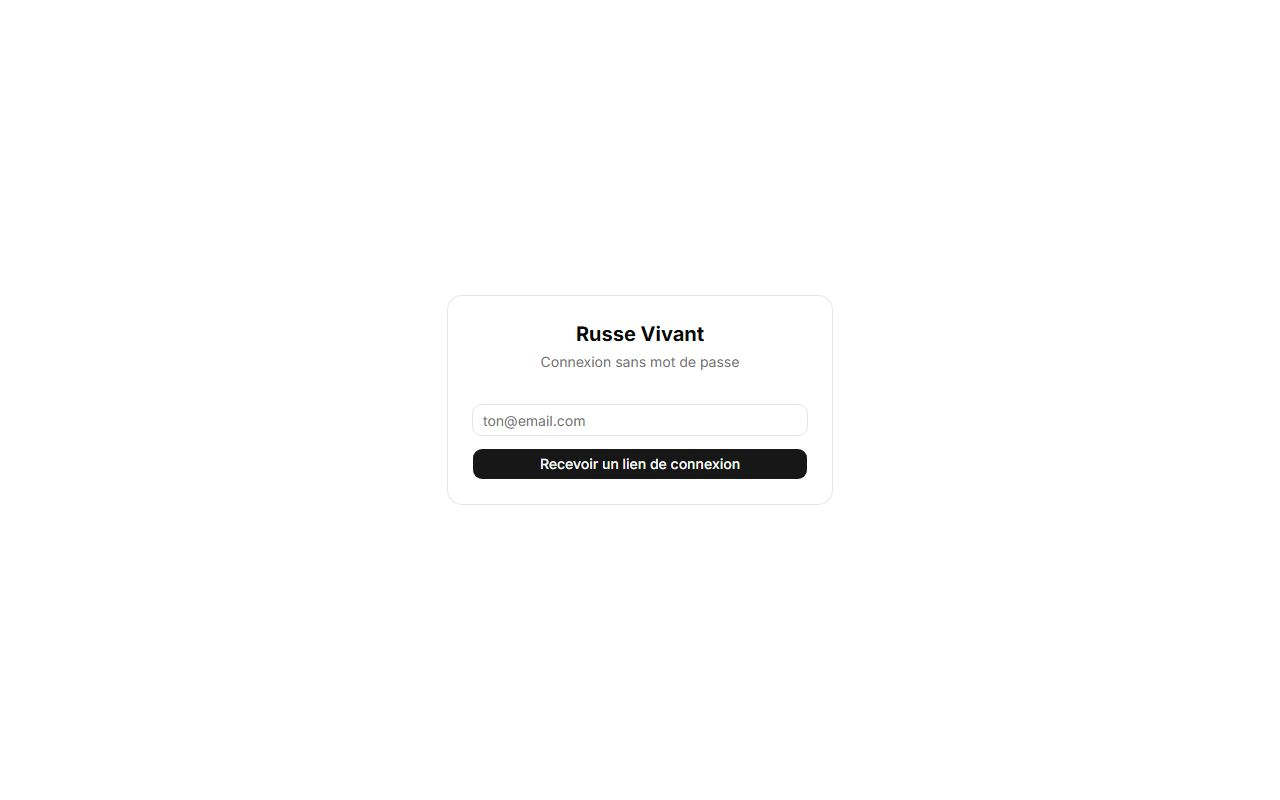
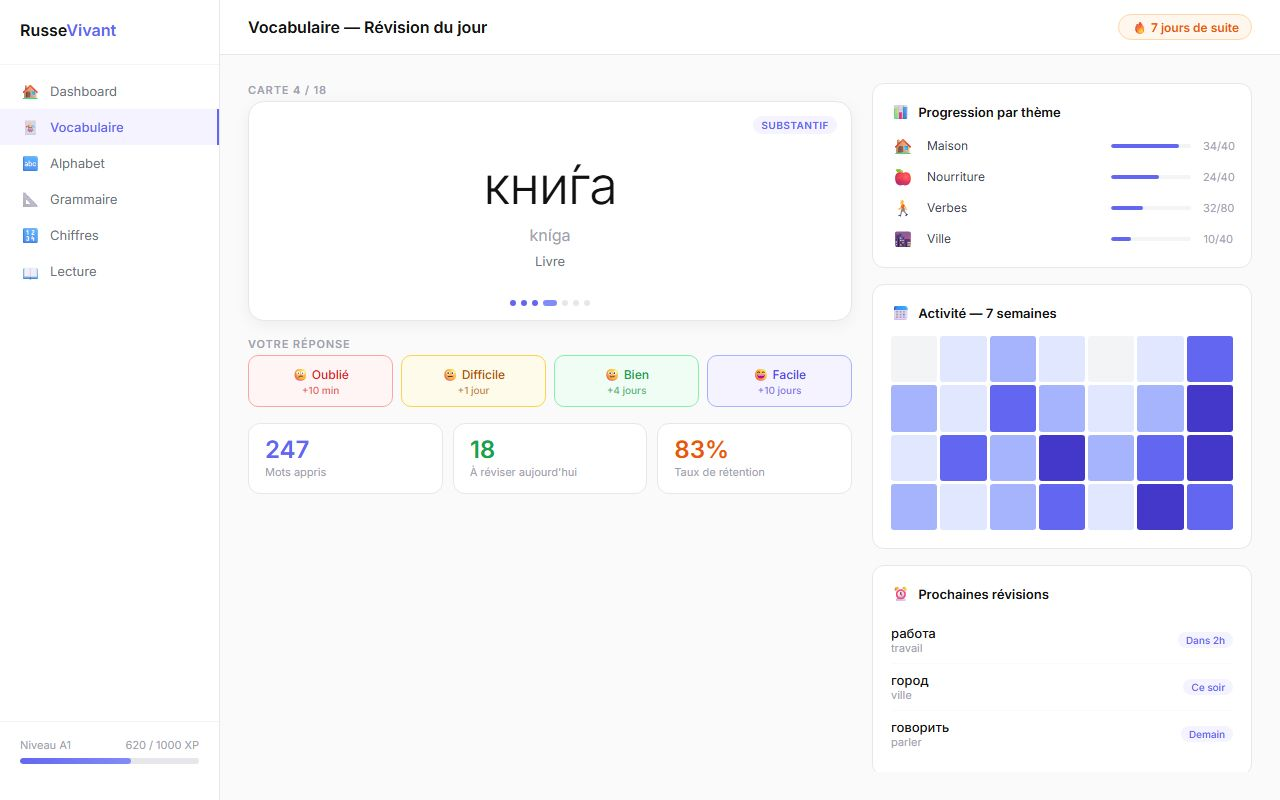
fix(projects): proper prose heading style, Russe Vivant mockup screenshot

diff --git a/public/projects/russe-vivant-mock.html b/public/projects/russe-vivant-mock.html
@@ -1,0 +1,231 @@
+<!DOCTYPE html>
+<html>
+<head>
+<meta charset="UTF-8">
+<link rel="preconnect" href="https://fonts.googleapis.com">
+<link href="https://fonts.googleapis.com/css2?family=Inter:wght@300;400;500;600&display=swap" rel="stylesheet">
+<style>
+  * { margin:0; padding:0; box-sizing:border-box; }
+  body { background:#fafafa; font-family:'Inter',sans-serif; width:1280px; height:800px; overflow:hidden; display:flex; }
+
+  /* Sidebar */
+  .sidebar { width:220px; background:#fff; border-right:1px solid #e5e7eb; display:flex; flex-direction:column; padding:20px 0; flex-shrink:0; }
+  .logo { padding:0 20px 24px; font-weight:600; font-size:16px; color:#111; border-bottom:1px solid #f3f4f6; margin-bottom:8px; }
+  .logo span { color:#6366f1; }
+  .nav-item { padding:8px 20px; font-size:13px; color:#6b7280; cursor:pointer; display:flex; align-items:center; gap:10px; border-radius:0; }
+  .nav-item.active { background:#f5f3ff; color:#6366f1; font-weight:500; border-right:2px solid #6366f1; }
+  .nav-item:hover:not(.active) { background:#f9fafb; color:#374151; }
+  .nav-icon { font-size:15px; width:20px; text-align:center; }
+  .sidebar-bottom { margin-top:auto; padding:16px 20px; border-top:1px solid #f3f4f6; }
+  .xp-label { font-size:11px; color:#9ca3af; margin-bottom:6px; display:flex; justify-content:space-between; }
+  .xp-bar { height:6px; background:#e5e7eb; border-radius:99px; overflow:hidden; }
+  .xp-fill { height:100%; width:62%; background:linear-gradient(90deg,#6366f1,#818cf8); border-radius:99px; }
+
+  /* Main */
+  .main { flex:1; display:flex; flex-direction:column; overflow:hidden; }
+
+  /* Top bar */
+  .topbar { background:#fff; border-bottom:1px solid #e5e7eb; padding:14px 28px; display:flex; align-items:center; justify-content:space-between; }
+  .topbar-title { font-size:16px; font-weight:600; color:#111; }
+  .streak { display:flex; align-items:center; gap:6px; background:#fff7ed; border:1px solid #fed7aa; border-radius:99px; padding:4px 12px; font-size:12px; font-weight:600; color:#ea580c; }
+
+  /* Content */
+  .content { flex:1; padding:28px; display:grid; grid-template-columns:1fr 380px; gap:20px; overflow:hidden; }
+
+  /* Flashcard area */
+  .flashcard-zone { display:flex; flex-direction:column; gap:16px; }
+  .section-label { font-size:11px; font-weight:600; letter-spacing:0.08em; text-transform:uppercase; color:#9ca3af; margin-bottom:4px; }
+
+  .flashcard {
+    background:#fff; border:1px solid #e5e7eb; border-radius:16px;
+    padding:40px 36px; display:flex; flex-direction:column; align-items:center; justify-content:center;
+    min-height:220px; box-shadow:0 4px 16px rgba(0,0,0,0.05); position:relative; text-align:center;
+  }
+  .flashcard-ru { font-size:52px; font-weight:300; color:#111; letter-spacing:-0.02em; margin-bottom:8px; }
+  .flashcard-rom { font-size:16px; color:#9ca3af; margin-bottom:4px; }
+  .flashcard-badge { position:absolute; top:14px; right:14px; background:#f5f3ff; color:#6366f1; font-size:10px; font-weight:600; padding:3px 8px; border-radius:99px; letter-spacing:0.05em; }
+  .flashcard-progress { position:absolute; bottom:14px; left:50%; transform:translateX(-50%); display:flex; gap:5px; }
+  .flashcard-dot { width:6px; height:6px; border-radius:50%; background:#e5e7eb; }
+  .flashcard-dot.done { background:#6366f1; }
+  .flashcard-dot.current { background:#818cf8; width:14px; border-radius:99px; }
+
+  .rating-row { display:grid; grid-template-columns:repeat(4,1fr); gap:8px; }
+  .rating-btn { padding:10px 4px; border-radius:10px; border:1px solid #e5e7eb; font-size:12px; font-weight:500; cursor:pointer; text-align:center; background:#fff; }
+  .rating-btn:nth-child(1) { border-color:#fca5a5; color:#dc2626; background:#fff5f5; }
+  .rating-btn:nth-child(2) { border-color:#fcd34d; color:#b45309; background:#fffbeb; }
+  .rating-btn:nth-child(3) { border-color:#86efac; color:#16a34a; background:#f0fdf4; }
+  .rating-btn:nth-child(4) { border-color:#a5b4fc; color:#4f46e5; background:#f5f3ff; }
+  .rating-btn .next-review { font-size:10px; opacity:0.7; display:block; margin-top:2px; }
+
+  /* Stats row */
+  .stats-row { display:grid; grid-template-columns:repeat(3,1fr); gap:10px; }
+  .stat-card { background:#fff; border:1px solid #e5e7eb; border-radius:12px; padding:14px 16px; }
+  .stat-val { font-size:24px; font-weight:600; color:#111; line-height:1; margin-bottom:3px; }
+  .stat-val.purple { color:#6366f1; }
+  .stat-val.green { color:#16a34a; }
+  .stat-val.orange { color:#ea580c; }
+  .stat-label { font-size:11px; color:#9ca3af; }
+
+  /* Sidebar right */
+  .sidebar-right { display:flex; flex-direction:column; gap:16px; overflow:hidden; }
+
+  .card { background:#fff; border:1px solid #e5e7eb; border-radius:12px; padding:18px; }
+  .card-title { font-size:13px; font-weight:600; color:#111; margin-bottom:14px; display:flex; align-items:center; gap:8px; }
+  .card-title-icon { font-size:14px; }
+
+  /* Progress list */
+  .progress-item { display:flex; align-items:center; gap:12px; margin-bottom:10px; }
+  .progress-item:last-child { margin-bottom:0; }
+  .pi-icon { font-size:16px; width:24px; text-align:center; }
+  .pi-label { flex:1; font-size:12px; color:#374151; }
+  .pi-bar { height:4px; background:#f3f4f6; border-radius:99px; overflow:hidden; width:80px; }
+  .pi-fill { height:100%; border-radius:99px; background:#6366f1; }
+  .pi-count { font-size:11px; color:#9ca3af; width:30px; text-align:right; }
+
+  /* Calendar heatmap */
+  .heatmap { display:grid; grid-template-columns:repeat(7,1fr); gap:3px; }
+  .hm-cell { aspect-ratio:1; border-radius:3px; background:#f3f4f6; }
+  .hm-cell.l1 { background:#e0e7ff; }
+  .hm-cell.l2 { background:#a5b4fc; }
+  .hm-cell.l3 { background:#6366f1; }
+  .hm-cell.l4 { background:#4338ca; }
+
+  /* Next reviews */
+  .review-item { display:flex; align-items:center; justify-content:space-between; padding:8px 0; border-bottom:1px solid #f9fafb; }
+  .review-item:last-child { border-bottom:none; }
+  .review-word { font-size:13px; color:#111; font-weight:500; }
+  .review-trans { font-size:11px; color:#9ca3af; }
+  .review-badge { font-size:10px; background:#f5f3ff; color:#6366f1; padding:2px 8px; border-radius:99px; font-weight:500; }
+</style>
+</head>
+<body>
+  <!-- Sidebar -->
+  <div class="sidebar">
+    <div class="logo">Russe<span>Vivant</span></div>
+    <div class="nav-item"><span class="nav-icon">🏠</span> Dashboard</div>
+    <div class="nav-item active"><span class="nav-icon">🃏</span> Vocabulaire</div>
+    <div class="nav-item"><span class="nav-icon">🔤</span> Alphabet</div>
+    <div class="nav-item"><span class="nav-icon">📐</span> Grammaire</div>
+    <div class="nav-item"><span class="nav-icon">🔢</span> Chiffres</div>
+    <div class="nav-item"><span class="nav-icon">📖</span> Lecture</div>
+    <div class="sidebar-bottom">
+      <div class="xp-label"><span>Niveau A1</span><span>620 / 1000 XP</span></div>
+      <div class="xp-bar"><div class="xp-fill"></div></div>
+    </div>
+  </div>
+
+  <!-- Main -->
+  <div class="main">
+    <div class="topbar">
+      <div class="topbar-title">Vocabulaire — Révision du jour</div>
+      <div class="streak">🔥 7 jours de suite</div>
+    </div>
+
+    <div class="content">
+      <!-- Flashcard zone -->
+      <div class="flashcard-zone">
+        <div>
+          <div class="section-label">Carte 4 / 18</div>
+          <div class="flashcard">
+            <span class="flashcard-badge">SUBSTANTIF</span>
+            <div class="flashcard-ru">кни́га</div>
+            <div class="flashcard-rom">kníga</div>
+            <div style="font-size:13px;color:#6b7280;margin-top:4px;">Livre</div>
+            <div class="flashcard-progress">
+              <div class="flashcard-dot done"></div>
+              <div class="flashcard-dot done"></div>
+              <div class="flashcard-dot done"></div>
+              <div class="flashcard-dot current"></div>
+              <div class="flashcard-dot"></div>
+              <div class="flashcard-dot"></div>
+              <div class="flashcard-dot"></div>
+            </div>
+          </div>
+        </div>
+
+        <div>
+          <div class="section-label">Votre réponse</div>
+          <div class="rating-row">
+            <div class="rating-btn">😕 Oublié<span class="next-review">+10 min</span></div>
+            <div class="rating-btn">😐 Difficile<span class="next-review">+1 jour</span></div>
+            <div class="rating-btn">🙂 Bien<span class="next-review">+4 jours</span></div>
+            <div class="rating-btn">😄 Facile<span class="next-review">+10 jours</span></div>
+          </div>
+        </div>
+
+        <div class="stats-row">
+          <div class="stat-card">
+            <div class="stat-val purple">247</div>
+            <div class="stat-label">Mots appris</div>
+          </div>
+          <div class="stat-card">
+            <div class="stat-val green">18</div>
+            <div class="stat-label">À réviser aujourd'hui</div>
+          </div>
+          <div class="stat-card">
+            <div class="stat-val orange">83%</div>
+            <div class="stat-label">Taux de rétention</div>
+          </div>
+        </div>
+      </div>
+
+      <!-- Right sidebar -->
+      <div class="sidebar-right">
+        <div class="card">
+          <div class="card-title"><span class="card-title-icon">📊</span>Progression par thème</div>
+          <div class="progress-item">
+            <span class="pi-icon">🏠</span>
+            <span class="pi-label">Maison</span>
+            <div class="pi-bar"><div class="pi-fill" style="width:85%"></div></div>
+            <span class="pi-count">34/40</span>
+          </div>
+          <div class="progress-item">
+            <span class="pi-icon">🍎</span>
+            <span class="pi-label">Nourriture</span>
+            <div class="pi-bar"><div class="pi-fill" style="width:60%"></div></div>
+            <span class="pi-count">24/40</span>
+          </div>
+          <div class="progress-item">
+            <span class="pi-icon">🚶</span>
+            <span class="pi-label">Verbes</span>
+            <div class="pi-bar"><div class="pi-fill" style="width:40%"></div></div>
+            <span class="pi-count">32/80</span>
+          </div>
+          <div class="progress-item">
+            <span class="pi-icon">🌆</span>
+            <span class="pi-label">Ville</span>
+            <div class="pi-bar"><div class="pi-fill" style="width:25%"></div></div>
+            <span class="pi-count">10/40</span>
+          </div>
+        </div>
+
+        <div class="card">
+          <div class="card-title"><span class="card-title-icon">📅</span>Activité — 7 semaines</div>
+          <div class="heatmap">
+            <div class="hm-cell"></div><div class="hm-cell l1"></div><div class="hm-cell l2"></div><div class="hm-cell l1"></div><div class="hm-cell"></div><div class="hm-cell l1"></div><div class="hm-cell l3"></div>
+            <div class="hm-cell l2"></div><div class="hm-cell l1"></div><div class="hm-cell l3"></div><div class="hm-cell l2"></div><div class="hm-cell l1"></div><div class="hm-cell l2"></div><div class="hm-cell l4"></div>
+            <div class="hm-cell l1"></div><div class="hm-cell l3"></div><div class="hm-cell l2"></div><div class="hm-cell l4"></div><div class="hm-cell l2"></div><div class="hm-cell l3"></div><div class="hm-cell l4"></div>
+            <div class="hm-cell l2"></div><div class="hm-cell l1"></div><div class="hm-cell l2"></div><div class="hm-cell l3"></div><div class="hm-cell l1"></div><div class="hm-cell l4"></div><div class="hm-cell l3"></div>
+          </div>
+        </div>
+
+        <div class="card">
+          <div class="card-title"><span class="card-title-icon">⏰</span>Prochaines révisions</div>
+          <div class="review-item">
+            <div><div class="review-word">работа</div><div class="review-trans">travail</div></div>
+            <div class="review-badge">Dans 2h</div>
+          </div>
+          <div class="review-item">
+            <div><div class="review-word">город</div><div class="review-trans">ville</div></div>
+            <div class="review-badge">Ce soir</div>
+          </div>
+          <div class="review-item">
+            <div><div class="review-word">говорить</div><div class="review-trans">parler</div></div>
+            <div class="review-badge">Demain</div>
+          </div>
+        </div>
+      </div>
+    </div>
+  </div>
+</body>
+</html>

diff --git a/app/projects/[slug]/page.tsx b/app/projects/[slug]/page.tsx
@@ -103,15 +103,15 @@ export default async function ProjectPage({ params }: Params) {
             {project.description && (
               <section>
                 <div className="prose prose-invert max-w-none
-                  prose-headings:font-display prose-headings:text-text-primary prose-headings:font-normal
-                  prose-h2:text-xl prose-h2:mt-8 prose-h2:mb-3
-                  prose-p:text-text-secondary prose-p:leading-relaxed prose-p:my-3
+                  prose-headings:font-body prose-headings:font-semibold prose-headings:text-text-primary prose-headings:tracking-tight
+                  prose-h2:text-lg prose-h2:mt-10 prose-h2:mb-4
+                  prose-p:text-text-secondary prose-p:leading-relaxed prose-p:my-4
                   prose-a:text-accent prose-a:no-underline hover:prose-a:underline
-                  prose-strong:text-text-primary
+                  prose-strong:text-text-primary prose-strong:font-semibold
                   prose-ul:text-text-secondary prose-ol:text-text-secondary
-                  prose-ul:my-3 prose-li:my-1
+                  prose-ul:my-4 prose-li:my-1.5
                   prose-li:marker:text-accent
-                  prose-code:text-accent prose-code:bg-bg-elevated prose-code:px-1 prose-code:rounded
+                  prose-code:text-accent prose-code:bg-bg-elevated prose-code:px-1.5 prose-code:rounded prose-code:text-sm
                   prose-hr:border-bg-border">
                   <ReactMarkdown remarkPlugins={[remarkGfm]}>
                     {project.description}
